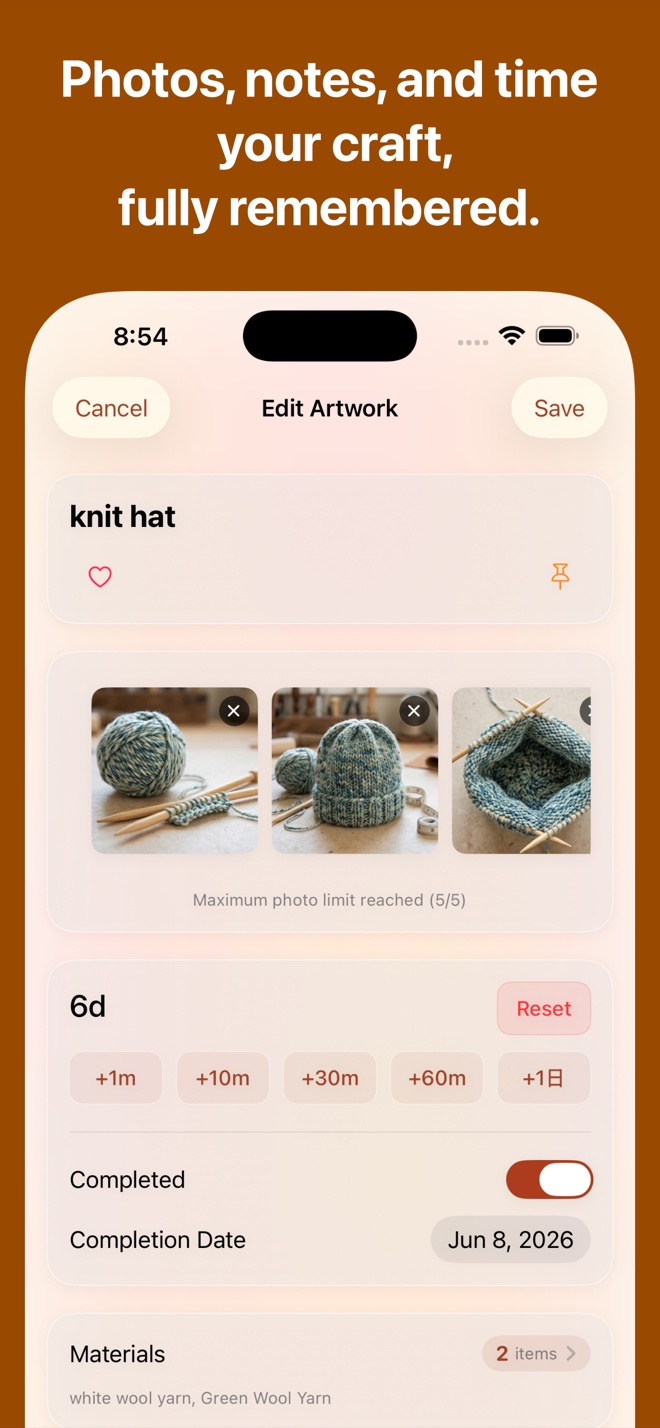
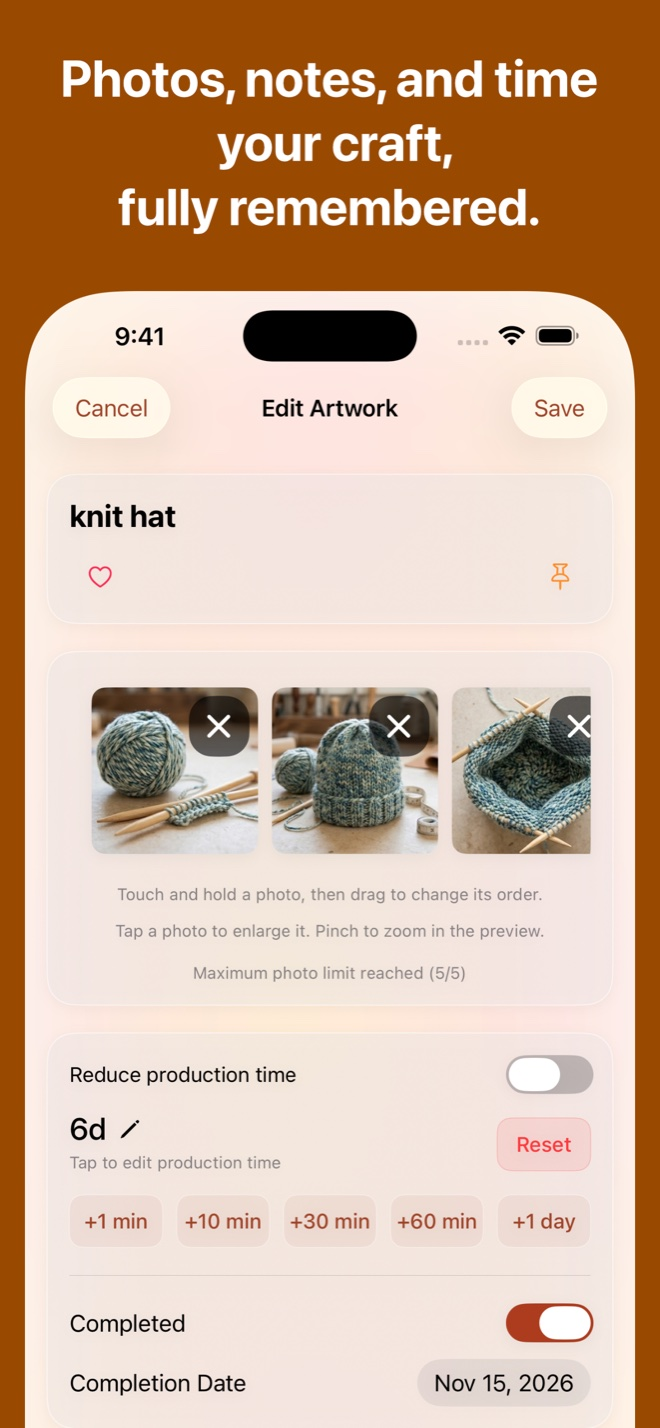
Handworks 1.1.0のスクリーンショットと紹介内容を反映

diff --git a/handworks/index.html b/handworks/index.html
@@ -1,1 +1,1 @@
-<!doctype html><html lang="ja" data-language="ja"><head><meta charset="utf-8"><meta name="viewport" content="width=device-width,initial-scale=1"><title>Handworks | STUDiO405</title><meta name="description" content="作品の写真も、使った素材も。ものづくりの思い出と工夫を、ひとつにまとめて残せます。"><link rel="stylesheet" href="../assets/site.css"><link rel="stylesheet" href="../assets/product-gallery.css"></head><body data-product="handworks" data-product-name="Handworks"><div class="shell"><header class="site-header"><a class="brand" data-language-link href="../" aria-label="STUDiO405 home">STUDiO405<small>APPLICATIONS</small></a><nav class="language" aria-label="Language"><button type="button" data-set-language="ja" aria-pressed="true">日本語</button><button type="button" data-set-language="en" aria-pressed="false">English</button></nav></header><main><a class="back-link" data-language-link href="../">← <span class="ja">アプリ一覧</span><span class="en" lang="en">All apps</span></a><section class="product-hero"><div><div class="product-name"><img src="../images/icon-handworks.png" width="64" height="64" alt=""><p>Handworks</p></div><p class="eyebrow"><span class="ja">作品・素材の記録</span><span class="en" lang="en">Creative portfolio</span></p><h1><span class="ja">つくった喜びを作品集に</span><span class="en" lang="en">Give your creations a home</span></h1><p class="product-intro"><span class="ja">作品の写真も、使った素材も。ものづくりの思い出と工夫を、ひとつにまとめて残せます。</span><span class="en" lang="en">Keep photos of your creations, the materials you used, and the ideas behind each piece together.</span></p><div class="actions"><a class="store-link" href="https://apps.apple.com/app/handworks-creative-portfolio/id6765852735"><span class="ja">App Storeで見る</span><span class="en" lang="en">View on the App Store</span><span aria-hidden="true">↗</span></a></div></div><figure class="store-hero-image"><img class="localized-image" src="../images/handworks/screen-01-ja.jpg" data-ja="../images/handworks/screen-01-ja.jpg" data-en="../images/handworks/screen-01-en.jpg" data-alt-ja="Handworks：好きなジャンルをまとめる" data-alt-en="Handworks: Organize your favorite crafts" alt="Handworks：好きなジャンルをまとめる" width="660" height="1428" fetchpriority="high"></figure></section><section class="product-section"><h2><span class="ja">できること</span><span class="en" lang="en">What you can do</span></h2><div class="feature-grid"><article class="feature"><h3><span class="ja">自分だけの作品ギャラリー</span><span class="en" lang="en">Your own gallery of creations</span></h3><p><span class="ja">作品の写真を並べて、自分だけの作品集を作れます。飾り、編み物、木工、お人形など、さまざまなものづくりに。</span><span class="en" lang="en">Build a personal gallery of your work, from jewelry and knitting to woodworking and dolls.</span></p></article><article class="feature"><h3><span class="ja">使った素材を覚えておく</span><span class="en" lang="en">Remember the materials you used</span></h3><p><span class="ja">素材の会社名、型番、大きさなど、作品に使った材料の情報を記録できます。</span><span class="en" lang="en">Record material makers, model numbers, sizes, and other details behind your creations.</span></p></article><article class="feature"><h3><span class="ja">また作りたいときの手がかり</span><span class="en" lang="en">Find what you need to make it again</span></h3><p><span class="ja">素材を買ったお店やウェブサイトの情報を保存。同じ素材を探したいときの手がかりになります。</span><span class="en" lang="en">Save the shops and websites where you found your materials, ready for your next project.</span></p></article></div></section><section class="product-section"><h2><span class="ja">Handworksの画面</span><span class="en" lang="en">A look inside the app</span></h2><div class="store-gallery"><figure><img class="localized-image" src="../images/handworks/screen-01-ja.jpg" data-ja="../images/handworks/screen-01-ja.jpg" data-en="../images/handworks/screen-01-en.jpg" data-alt-ja="Handworks：好きなジャンルをまとめる" data-alt-en="Handworks: Organize your favorite crafts" alt="Handworks：好きなジャンルをまとめる" width="660" height="1428" loading="lazy"><figcaption><span class="ja">好きなジャンルをまとめる</span><span class="en" lang="en">Organize your favorite crafts</span></figcaption></figure><figure><img class="localized-image" src="../images/handworks/screen-02-ja.jpg" data-ja="../images/handworks/screen-02-ja.jpg" data-en="../images/handworks/screen-02-en.jpg" data-alt-ja="Handworks：作品を一覧で振り返る" data-alt-en="Handworks: Browse your creations" alt="Handworks：作品を一覧で振り返る" width="660" height="1428" loading="lazy"><figcaption><span class="ja">作品を一覧で振り返る</span><span class="en" lang="en">Browse your creations</span></figcaption></figure><figure><img class="localized-image" src="../images/handworks/screen-03-ja.jpg" data-ja="../images/handworks/screen-03-ja.jpg" data-en="../images/handworks/screen-03-en.jpg" data-alt-ja="Handworks：写真や材料を記録する" data-alt-en="Handworks: Record photos and materials" alt="Handworks：写真や材料を記録する" width="660" height="1428" loading="lazy"><figcaption><span class="ja">写真や材料を記録する</span><span class="en" lang="en">Record photos and materials</span></figcaption></figure></div></section><div class="product-cta"><h2><span class="ja">アプリを詳しく見る</span><span class="en" lang="en">Explore the app</span></h2><a class="store-link" href="https://apps.apple.com/app/handworks-creative-portfolio/id6765852735"><span class="ja">App Storeで見る</span><span class="en" lang="en">View on the App Store</span><span aria-hidden="true">↗</span></a></div></main><footer><p>© 2026 STUDiO405</p><nav class="footer-links" aria-label="Support &amp; Privacy"><a data-language-link href="../support/"><span class="ja">サポート・お問い合わせ</span><span class="en" lang="en">Support &amp; Contact</span></a><a data-language-link href="../privacy/"><span class="ja">プライバシーポリシー</span><span class="en" lang="en">Privacy Policy</span></a></nav></footer></div><script src="../assets/language.js"></script></body></html>
+<!doctype html><html lang="ja" data-language="ja"><head><meta charset="utf-8"><meta name="viewport" content="width=device-width,initial-scale=1"><title>Handworks | STUDiO405</title><meta name="description" content="作品の写真も、使った素材も、制作にかけた時間も。ものづくりの思い出と工夫を、ひとつにまとめて残せます。"><link rel="stylesheet" href="../assets/site.css"><link rel="stylesheet" href="../assets/product-gallery.css"></head><body data-product="handworks" data-product-name="Handworks"><div class="shell"><header class="site-header"><a class="brand" data-language-link href="../" aria-label="STUDiO405 home">STUDiO405<small>APPLICATIONS</small></a><nav class="language" aria-label="Language"><button type="button" data-set-language="ja" aria-pressed="true">日本語</button><button type="button" data-set-language="en" aria-pressed="false">English</button></nav></header><main><a class="back-link" data-language-link href="../">← <span class="ja">アプリ一覧</span><span class="en" lang="en">All apps</span></a><section class="product-hero"><div><div class="product-name"><img src="../images/icon-handworks.png" width="64" height="64" alt=""><p>Handworks</p></div><p class="eyebrow"><span class="ja">作品・素材の記録</span><span class="en" lang="en">Creative portfolio</span></p><h1><span class="ja">つくった喜びを作品集に</span><span class="en" lang="en">Give your creations a home</span></h1><p class="product-intro"><span class="ja">作品の写真も、使った素材も、制作にかけた時間も。ものづくりの思い出と工夫を、ひとつにまとめて残せます。</span><span class="en" lang="en">Keep photos, materials, production time, and the ideas behind each creation together.</span></p><div class="actions"><a class="store-link" href="https://apps.apple.com/app/handworks-creative-portfolio/id6765852735"><span class="ja">App Storeで見る</span><span class="en" lang="en">View on the App Store</span><span aria-hidden="true">↗</span></a></div></div><figure class="store-hero-image"><img class="localized-image" src="../images/handworks/screen-01-ja.jpg" data-ja="../images/handworks/screen-01-ja.jpg" data-en="../images/handworks/screen-01-en.jpg" data-alt-ja="Handworks：好きなジャンルをまとめる" data-alt-en="Handworks: Organize your favorite crafts" alt="Handworks：好きなジャンルをまとめる" width="660" height="1428" fetchpriority="high"></figure></section><section class="product-section"><h2><span class="ja">できること</span><span class="en" lang="en">What you can do</span></h2><div class="feature-grid"><article class="feature"><h3><span class="ja">自分だけの作品ギャラリー</span><span class="en" lang="en">Your own gallery of creations</span></h3><p><span class="ja">作品の写真を並べて、自分だけの作品集を作れます。写真はタップで大きく表示し、ピンチで細部まで確認できます。</span><span class="en" lang="en">Build a personal gallery of your creations. Tap a photo to open its preview, then pinch to explore the details.</span></p></article><article class="feature"><h3><span class="ja">使った素材を覚えておく</span><span class="en" lang="en">Remember the materials you used</span></h3><p><span class="ja">素材の会社名、型番、大きさに加え、購入したお店やウェブサイトも記録。また作りたいとき、同じ素材を探す手がかりになります。</span><span class="en" lang="en">Record material makers, model numbers, sizes, shops, and websites so you can find the same supplies for your next project.</span></p></article><article class="feature"><h3><span class="ja">制作にかけた時間も記録</span><span class="en" lang="en">Keep track of production time</span></h3><p><span class="ja">制作時間をボタンで加算・減算したり、直接入力して修正したりできます。写真や素材と一緒に、制作の過程を残せます。</span><span class="en" lang="en">Add or subtract time with the time buttons, or edit it directly. Keep a record of the process alongside your photos and materials.</span></p></article></div></section><section class="product-section"><h2><span class="ja">Handworksの画面</span><span class="en" lang="en">A look inside the app</span></h2><div class="store-gallery"><figure><img class="localized-image" src="../images/handworks/screen-01-ja.jpg" data-ja="../images/handworks/screen-01-ja.jpg" data-en="../images/handworks/screen-01-en.jpg" data-alt-ja="Handworks：好きなジャンルをまとめる" data-alt-en="Handworks: Organize your favorite crafts" alt="Handworks：好きなジャンルをまとめる" width="660" height="1428" loading="lazy"><figcaption><span class="ja">好きなジャンルをまとめる</span><span class="en" lang="en">Organize your favorite crafts</span></figcaption></figure><figure><img class="localized-image" src="../images/handworks/screen-02-ja.jpg" data-ja="../images/handworks/screen-02-ja.jpg" data-en="../images/handworks/screen-02-en.jpg" data-alt-ja="Handworks：作品を一覧で振り返る" data-alt-en="Handworks: Browse your creations" alt="Handworks：作品を一覧で振り返る" width="660" height="1428" loading="lazy"><figcaption><span class="ja">作品を一覧で振り返る</span><span class="en" lang="en">Browse your creations</span></figcaption></figure><figure><img class="localized-image" src="../images/handworks/screen-03-ja.jpg" data-ja="../images/handworks/screen-03-ja.jpg" data-en="../images/handworks/screen-03-en.jpg" data-alt-ja="Handworks：写真や制作時間を記録する" data-alt-en="Handworks: Record photos and production time" alt="Handworks：写真や制作時間を記録する" width="660" height="1428" loading="lazy"><figcaption><span class="ja">写真や制作時間を記録する</span><span class="en" lang="en">Record photos and production time</span></figcaption></figure></div></section><div class="product-cta"><h2><span class="ja">アプリを詳しく見る</span><span class="en" lang="en">Explore the app</span></h2><a class="store-link" href="https://apps.apple.com/app/handworks-creative-portfolio/id6765852735"><span class="ja">App Storeで見る</span><span class="en" lang="en">View on the App Store</span><span aria-hidden="true">↗</span></a></div></main><footer><p>© 2026 STUDiO405</p><nav class="footer-links" aria-label="Support &amp; Privacy"><a data-language-link href="../support/"><span class="ja">サポート・お問い合わせ</span><span class="en" lang="en">Support &amp; Contact</span></a><a data-language-link href="../privacy/"><span class="ja">プライバシーポリシー</span><span class="en" lang="en">Privacy Policy</span></a></nav></footer></div><script src="../assets/language.js"></script></body></html>

diff --git a/index.html b/index.html
@@ -42,9 +42,9 @@
 <article class="app-card" id="handworks" style="--accent:#a5736a">
       <div class="app-top"><img src="images/icon-handworks.png" width="72" height="72" alt="" decoding="async">
         <div><p class="category"><span class="ja">作品・素材の記録</span><span class="en" lang="en">Creative portfolio</span></p><h3>Handworks</h3></div></div>
-      <h4><span class="ja">つくった喜びを作品集に</span><span class="en" lang="en">Give your creations a home</span></h4><p class="description"><span class="ja">作品の写真も、使った素材も。ものづくりの思い出と工夫を、ひとつにまとめて残せます。</span><span class="en" lang="en">Keep photos of your creations, the materials you used, and the ideas behind each piece together.</span></p>
+      <h4><span class="ja">つくった喜びを作品集に</span><span class="en" lang="en">Give your creations a home</span></h4><p class="description"><span class="ja">作品の写真も、使った素材も、制作にかけた時間も。ものづくりの思い出と工夫を、ひとつにまとめて残せます。</span><span class="en" lang="en">Keep photos, materials, production time, and the ideas behind each creation together.</span></p>
       <div class="actions"><a class="store-link" href="https://apps.apple.com/app/handworks-creative-portfolio/id6765852735"><span class="ja">App Storeで見る</span><span class="en" lang="en">View on the App Store</span><span aria-hidden="true">↗</span></a><a class="detail-link" data-language-link href="handworks/"><span class="ja">詳しく見る</span><span class="en" lang="en">Learn more</span><span aria-hidden="true"> →</span></a></div>
-      <details><summary><span class="ja">特徴を見る</span><span class="en" lang="en">Explore features</span><span class="plus" aria-hidden="true">+</span></summary><ul><li><span class="ja">自分だけの作品ギャラリー</span><span class="en" lang="en">Your own gallery of creations</span></li><li><span class="ja">素材の会社名・型番・サイズを記録</span><span class="en" lang="en">Notes on material makers, model numbers, and sizes</span></li><li><span class="ja">素材を購入したお店やURLを保存</span><span class="en" lang="en">Save source shops and links for future projects</span></li></ul></details>
+      <details><summary><span class="ja">特徴を見る</span><span class="en" lang="en">Explore features</span><span class="plus" aria-hidden="true">+</span></summary><ul><li><span class="ja">自分だけの作品ギャラリー</span><span class="en" lang="en">Your own gallery of creations</span></li><li><span class="ja">素材の会社名・型番・サイズを記録</span><span class="en" lang="en">Notes on material makers, model numbers, and sizes</span></li><li><span class="ja">素材を購入したお店やURLを保存</span><span class="en" lang="en">Save source shops and links for future projects</span></li><li><span class="ja">写真を拡大して細部を確認</span><span class="en" lang="en">Zoom in to see photo details</span></li><li><span class="ja">制作時間の記録・直接編集・加算と減算</span><span class="en" lang="en">Track and edit production time, or add and subtract it</span></li></ul></details>
     </article></div></section></main>
 <footer><p>© 2026 STUDiO405</p><nav class="footer-links" aria-label="Support &amp; Privacy"><a data-language-link href="support/"><span class="ja">サポート・お問い合わせ</span><span class="en" lang="en">Support &amp; Contact</span></a><a data-language-link href="privacy/"><span class="ja">プライバシーポリシー</span><span class="en" lang="en">Privacy Policy</span></a></nav></footer>
 </div><script src="assets/language.js"></script></body></html>

diff --git a/docs/apps/handworks.md b/docs/apps/handworks.md
@@ -1,9 +1,10 @@
 # Handworks 紹介ページ
 
-更新日: 2026-11-01
+更新日: 2026-11-15
 
-既存ストア用画像をWeb向けのJPEGへ縮小して追加。元画像は変更していない。
-紹介文の機能範囲は従来のまま。現行アプリとの差分・ストア登録状態は未確認。
+1.1.0向けに日英の3枚目を差し替え。Affinityで修正したストア用PNGを、既存と同じ660×1428pxのJPEG（品質85）へ変換。
+トップと紹介ページのアイコンを現行アプリのアイコンへ更新。写真プレビュー・ピンチ拡大、制作時間の直接編集・加算・減算の説明を日英で反映。
+公開中の1.0.1に新機能があるとの誤解を避けるため、1.1.0配信済みの表記は追加していない。
 
 ## 画像の出典
 
@@ -11,19 +12,26 @@
 
 - ja: Handworks/AppStoreConnect/Handworks01_ja.png
 - ja: Handworks/AppStoreConnect/Handworks02_ja.png
-- ja: Handworks/AppStoreConnect/Handworks03_ja.png
+- ja（3枚目の旧版）: Handworks/AppStoreConnect/Handworks03_ja.png
 - en: Handworks/AppStoreConnect/Handworks01_en.png
 - en: Handworks/AppStoreConnect/Handworks02_en.png
-- en: Handworks/AppStoreConnect/Handworks03_en.png
+- en（3枚目の旧版）: Handworks/AppStoreConnect/Handworks03_en.png
 
+3枚目の現行原本:
+- /Users/STUDiO405/Development/iOS/App/Handworks/output/app-store/1.1.0/screenshots/review/Handworks03_ja-affinity.png
+- /Users/STUDiO405/Development/iOS/App/Handworks/output/app-store/1.1.0/screenshots/review/Handworks03_en-affinity.png
+
+アイコン原本: Handworks/Handworks/Resources/Assets.xcassets/AppIcon.appiconset/Handworks-AppIcon-1024.png（256×256pxへ縮小）。
+機能の根拠: Handworks/docs/release-1.1.0.md。
 既存の言語切替に合わせて画像と代替テキストを切替。
+Safariで日英の紹介文・アイコン・3枚の画像・言語切替を確認。ローカル参照先の存在、画像寸法、git diff --checkも確認。
 
 ## 次回のストア更新で変更するURL
 
-2026-11-14記録。App Store Connectで、各言語のサポートURLとマーケティングURLを更新する。
+2026-11-15確認。App Store Connectの1.1.0で、日英とも下記URLが保存済みであることを確認。今回の確認時にはURLの編集は行っていない。
 
-- [ ] 日本語のサポートURLを https://singo405.github.io/studio405-apps/support/?lang=ja に変更
-- [ ] 英語のサポートURLを https://singo405.github.io/studio405-apps/support/?lang=en に変更
-- [ ] 日本語のマーケティングURLを https://singo405.github.io/studio405-apps/handworks/?lang=ja に変更
-- [ ] 英語のマーケティングURLを https://singo405.github.io/studio405-apps/handworks/?lang=en に変更
-- [ ] 保存後、各URLと言語別の表示を確認
+- [x] 日本語のサポートURLを https://singo405.github.io/studio405-apps/support/?lang=ja に変更
+- [x] 英語のサポートURLを https://singo405.github.io/studio405-apps/support/?lang=en に変更
+- [x] 日本語のマーケティングURLを https://singo405.github.io/studio405-apps/handworks/?lang=ja に変更
+- [x] 英語のマーケティングURLを https://singo405.github.io/studio405-apps/handworks/?lang=en に変更
+- [x] App Store Connectで日英それぞれの登録値と保存済み状態を確認
